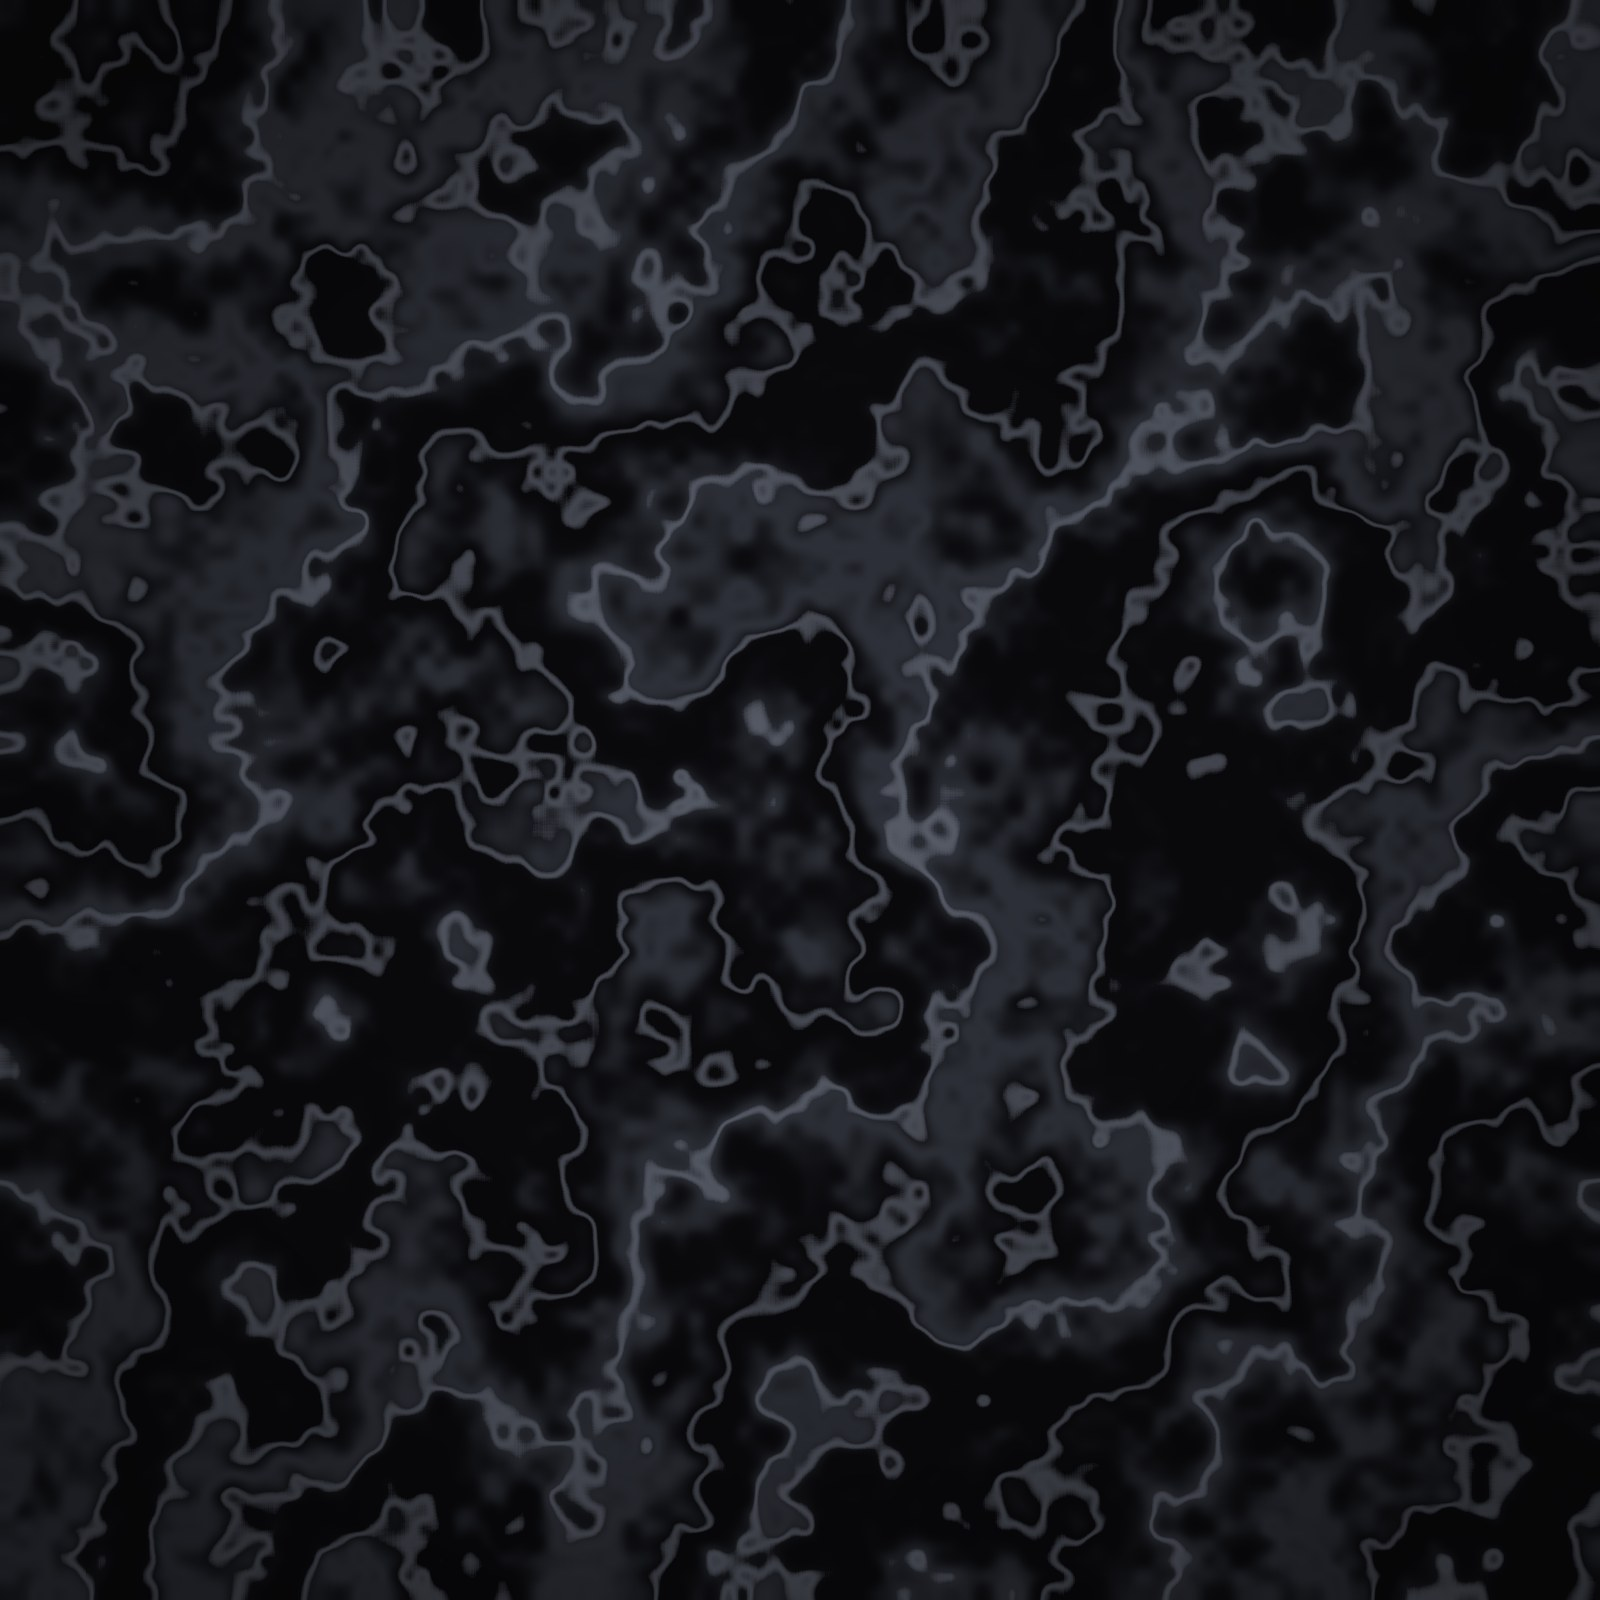
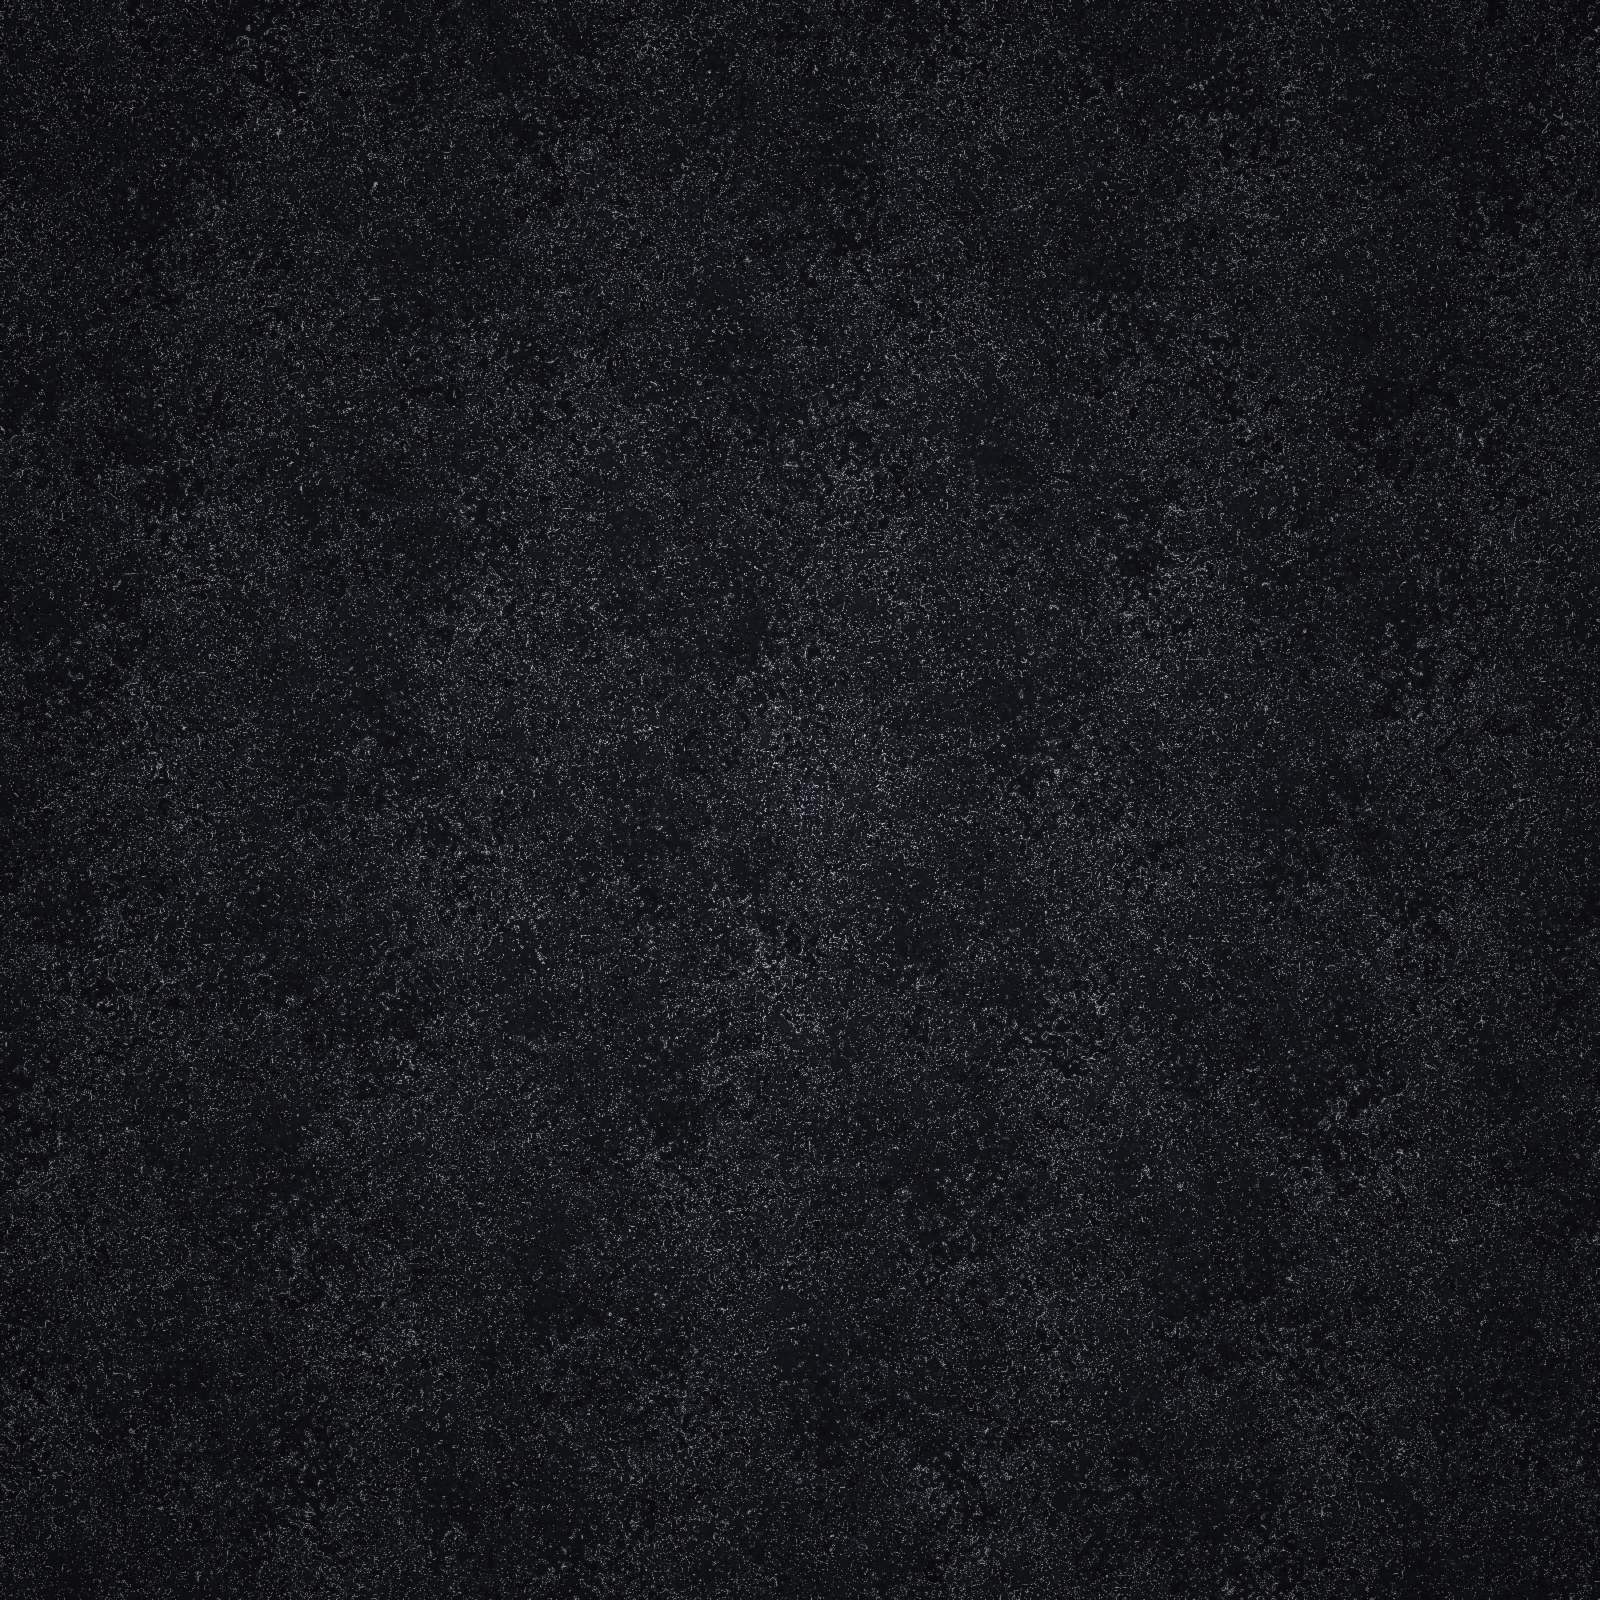
Add files via upload

Changed region(s): [[0.0, 0.0, 1.0, 1.0]]

diff --git a/index.html b/index.html
@@ -125,7 +125,7 @@
 
   /* full-page marble background */
   .marble{position:fixed;inset:0;z-index:-3;background:url('marble.jpg') center/cover no-repeat}
-  .marble::after{content:"";position:fixed;inset:0;background:linear-gradient(rgba(8,8,11,.78),rgba(8,8,11,.88))}
+  .marble::after{content:"";position:fixed;inset:0;background:linear-gradient(rgba(8,8,11,.5),rgba(8,8,11,.62))}
 </style>
 </head>
 <body>